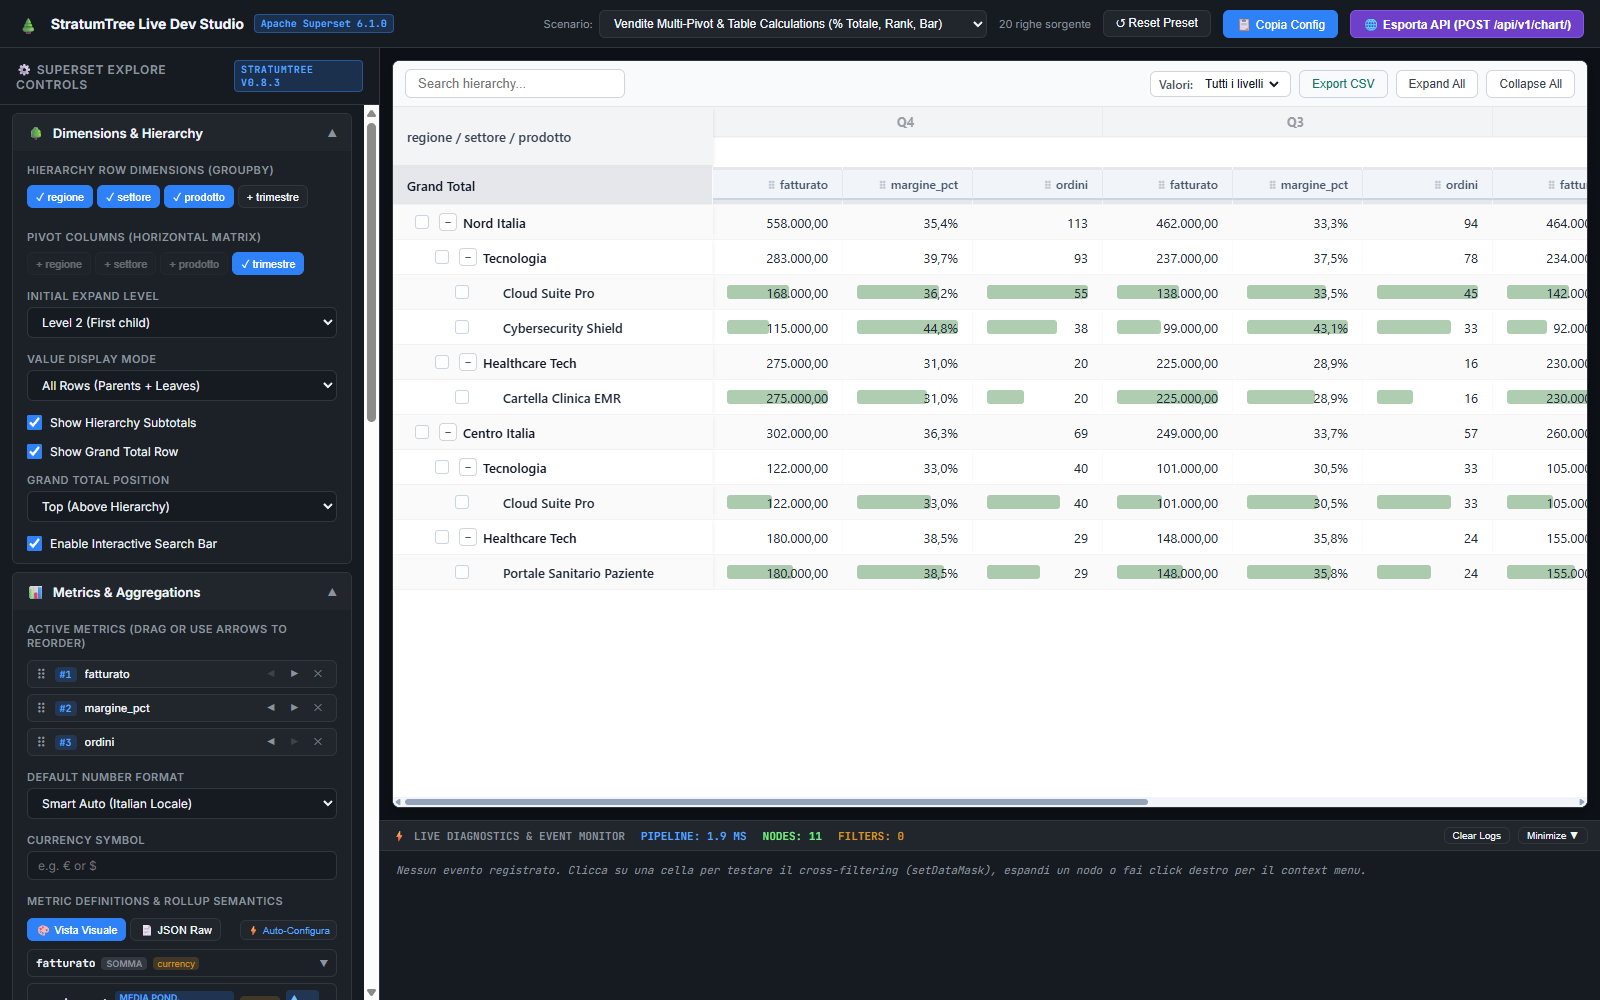
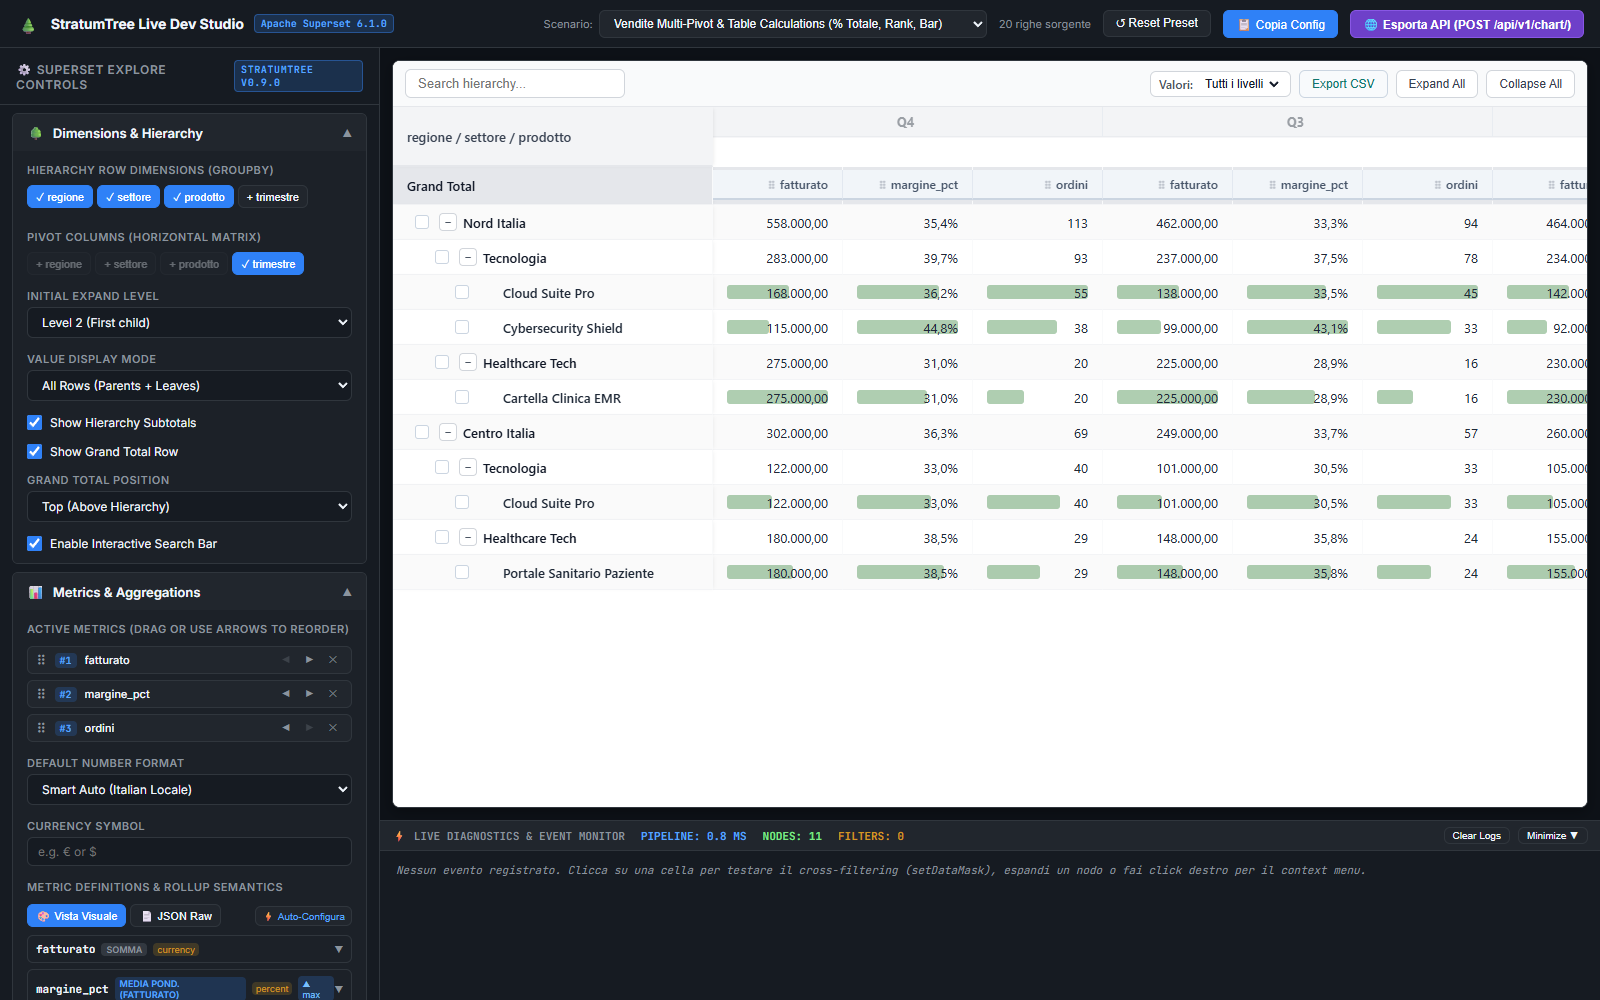
docs(demo): refresh scenario screenshots, What-If showcase and animated demo GIF (v0.9.0)
Update scenario screenshots using Playwright, add What-If simulation showcase image and sync animated demo GIF and site badge to v0.9.0.

Changed region(s): [[0.0, 0.093, 0.7188, 1.0]]

diff --git a/dev-studio/src/App.tsx b/dev-studio/src/App.tsx
@@ -17,7 +17,15 @@ export default function App() {
   });
   const scenario = useMemo(() => getScenarioById(currentScenarioId), [currentScenarioId]);
 
-  const [formData, setFormData] = useState<Record<string, any>>(() => ({ ...scenario.formData }));
+  const [formData, setFormData] = useState<Record<string, any>>(() => {
+    const p = new URLSearchParams(window.location.search);
+    const initial: Record<string, any> = { ...scenario.formData };
+    if (p.has('whatif')) {
+      initial.enableWhatIf = true;
+      initial.enable_what_if = true;
+    }
+    return initial;
+  });
   const [logs, setLogs] = useState<LogEntry[]>([]);
   const [isApiModalOpen, setIsApiModalOpen] = useState(() => {
     const p = new URLSearchParams(window.location.search);

diff --git a/site/index.html b/site/index.html
@@ -63,7 +63,7 @@
     <header class="hero">
       <div class="container">
         <div class="hero-pill">
-          <span>⚡ Apache Superset 6.1.0 Ready</span> • <span>StratumTree v0.8.0</span>
+          <span>⚡ Apache Superset 6.1.0 Ready</span> • <span>StratumTree v0.9.0</span>
         </div>
         <h1>
           <span class="gradient-text">StratumTree</span> Matrix Grid<br />for Apache Superset 6.1.0

diff --git a/scripts/generate_demo_gif.py b/scripts/generate_demo_gif.py
@@ -4,9 +4,9 @@ and compile an optimized, high-fidelity animated GIF demo for README.md.
 """
 
 import os
-import subprocess
 import time
 from PIL import Image
+from playwright.sync_api import sync_playwright
 
 CHROME_PATH = r"C:\Program Files\Google\Chrome\Application\chrome.exe"
 OUTPUT_DIR = os.path.join(os.path.dirname(__file__), "..", "docs", "images")
@@ -29,6 +29,12 @@ FRAMES = [
         "description": "Virtualization Stress Test: 5,000 Rows, 60fps Scrolling",
     },
     {
+        "name": "dev_studio_whatif_simulation.png",
+        "url": "http://localhost:5173/?scenario=healthcare&whatif=1",
+        "description": "What-If Simulation Engine: Range Sliders (-50% to +50%), In-Cell Polarity Badges, Scenarios",
+        "action": "whatif",
+    },
+    {
         "name": "dev_studio_api_export_modal.png",
         "url": "http://localhost:5173/?scenario=healthcare&apiModal=1",
         "description": "Superset REST API Modal (POST /api/v1/chart/), Schema & cURL/Python",
@@ -36,26 +42,45 @@ FRAMES = [
 ]
 
 def capture_frames():
-    print(f"Capturing {len(FRAMES)} screenshots with Chrome headless...")
+    print(f"Capturing {len(FRAMES)} screenshots with Playwright...")
     captured_paths = []
-    for frame in FRAMES:
-        out_path = os.path.abspath(os.path.join(OUTPUT_DIR, frame["name"]))
-        cmd = [
-            CHROME_PATH,
-            "--headless=new",
-            "--window-size=1600,1000",
-            f"--screenshot={out_path}",
-            frame["url"],
-        ]
-        print(f"Capturing: {frame['url']} -> {frame['name']}")
-        res = subprocess.run(cmd, capture_output=True, text=True)
-        if res.returncode != 0:
-            print(f"Error capturing {frame['name']}: {res.stderr}")
-        else:
+    
+    with sync_playwright() as p:
+        browser = p.chromium.launch(
+            executable_path=CHROME_PATH,
+            headless=True,
+        )
+        page = browser.new_page(viewport={"width": 1600, "height": 1000})
+        
+        for frame in FRAMES:
+            out_path = os.path.abspath(os.path.join(OUTPUT_DIR, frame["name"]))
+            print(f"Navigating: {frame['url']} -> {frame['name']}")
+            page.goto(frame["url"])
+            page.wait_for_timeout(2000)
+            
+            if frame.get("action") == "whatif":
+                try:
+                    title_btn = page.locator(".whatif-title-btn")
+                    if title_btn.count() > 0:
+                        title_btn.first.click()
+                        page.wait_for_timeout(400)
+                    sliders = page.locator(".whatif-slider-input")
+                    if sliders.count() > 0:
+                        sliders.first.fill("15")
+                        sliders.first.dispatch_event("input")
+                        sliders.first.dispatch_event("change")
+                        page.wait_for_timeout(800)
+                except Exception as e:
+                    print(f"Warning during whatif interaction: {e}")
+            
+            page.screenshot(path=out_path)
             size_kb = os.path.getsize(out_path) / 1024
             print(f"Captured {frame['name']} ({size_kb:.1f} KB)")
             captured_paths.append(out_path)
-        time.sleep(0.5)
+            time.sleep(0.5)
+            
+        browser.close()
+        
     return captured_paths
 
 def generate_gif(image_paths):

diff --git a/README.md b/README.md
@@ -120,7 +120,13 @@ Multi-dimensional pivot matrix by Quarter and Sales Channel. Demonstrates intera
 
 Windowed rendering benchmark demonstrating smooth 60fps scrolling and sub-second calculation pipeline across 5,000 deep hierarchical tree rows with live memory tracking.
 
-#### 4. Superset REST API Automation Modal (`POST /api/v1/chart/`)
+#### 4. Interactive What-If Simulation & Scenario Manager
+
+![What-If Simulation Showcase](docs/images/dev_studio_whatif_simulation.png)
+
+Real-time calculation engine applying multiplicative percentage variations strictly to leaf records while maintaining mathematical rollup integrity across parent subtotals, weighted averages, and ratio metrics. Directional delta badges with polarity sensitivity highlight simulated gains and losses directly in-cell, accompanied by preset saving and enriched CSV export.
+
+#### 5. Superset REST API Automation Modal (`POST /api/v1/chart/`)
 
 ![Superset REST API Modal](docs/images/dev_studio_api_export_modal.png)
 
